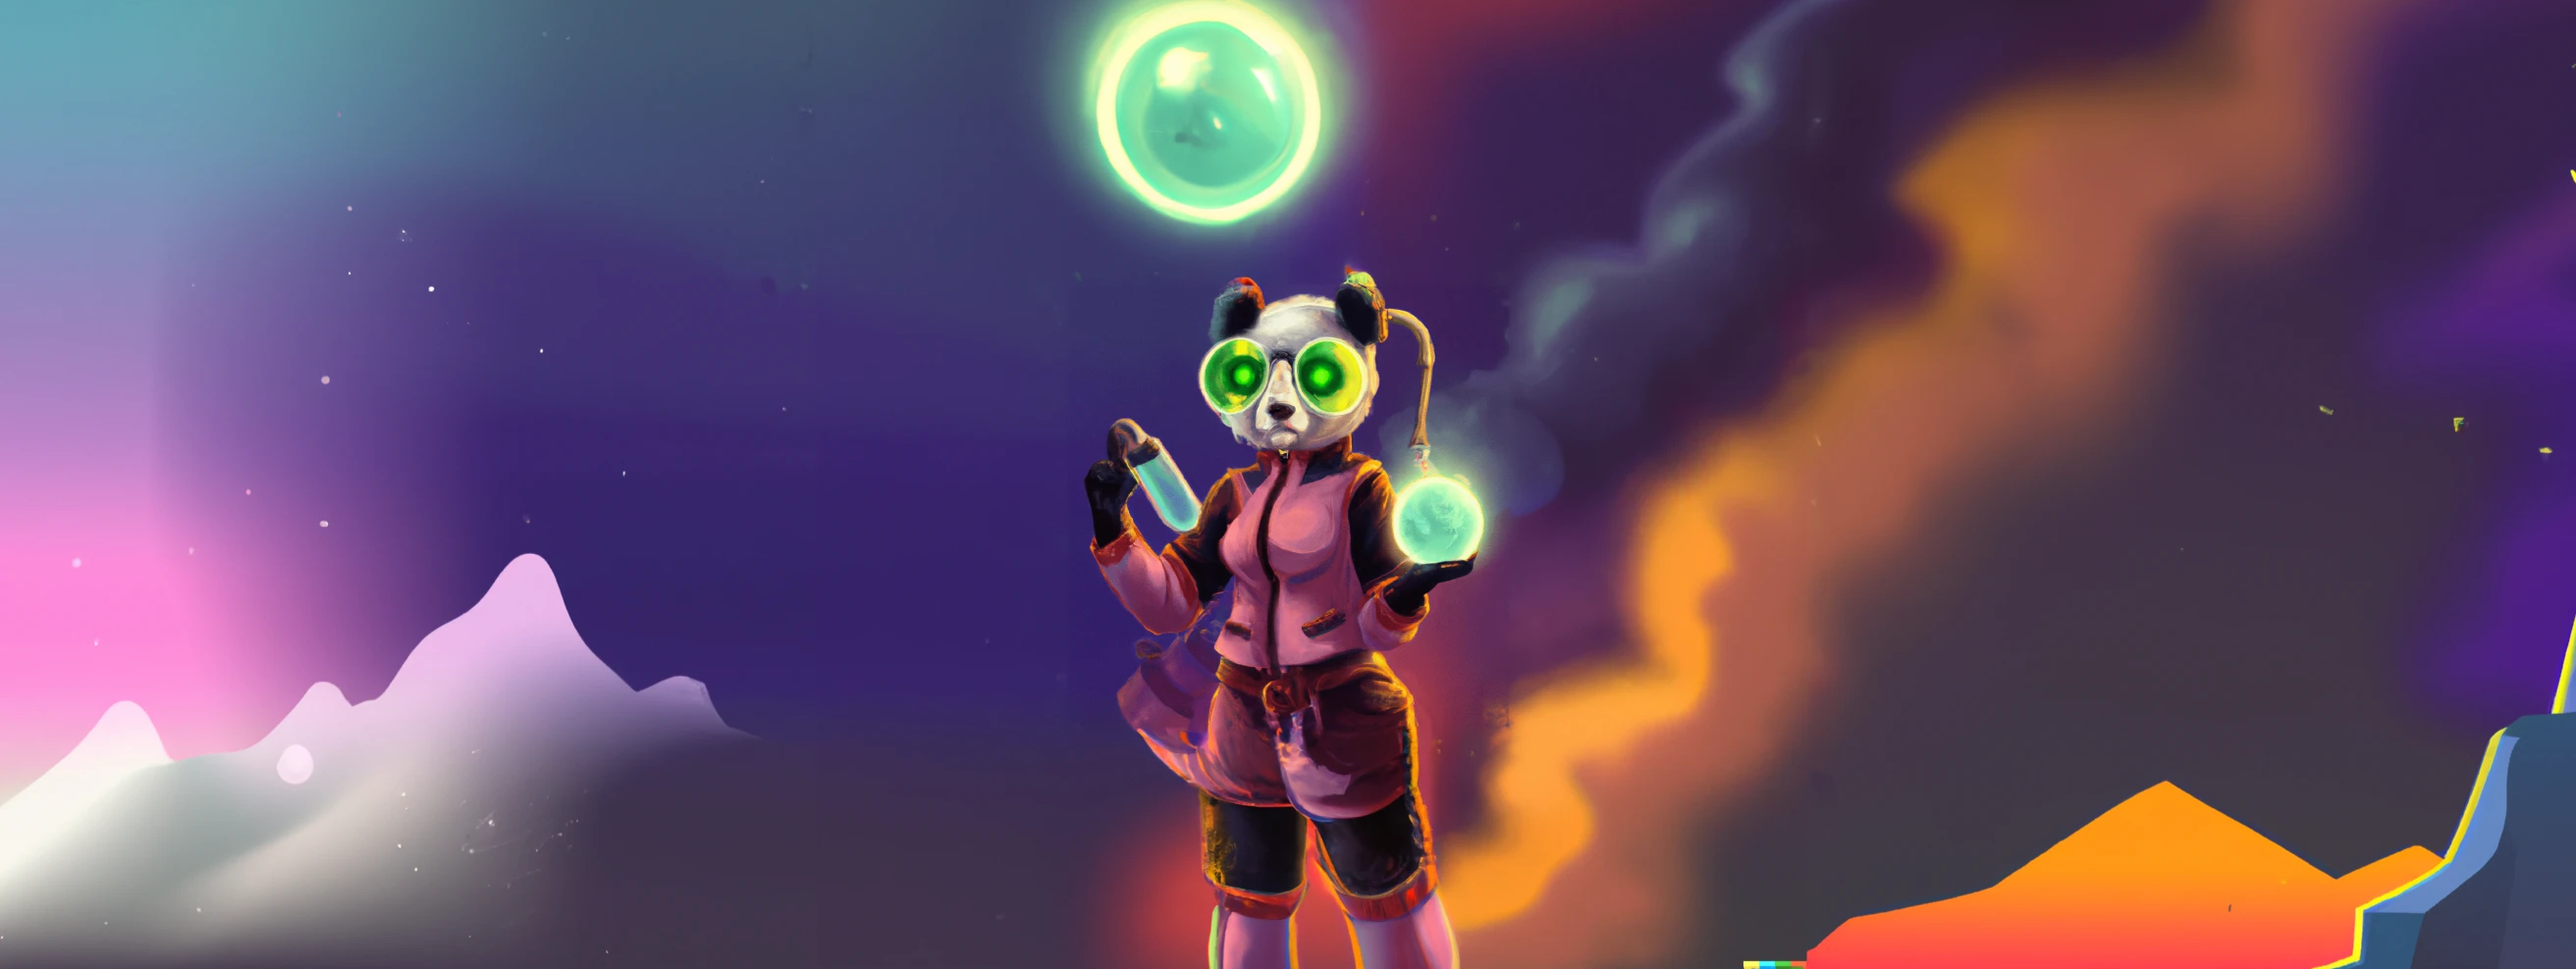
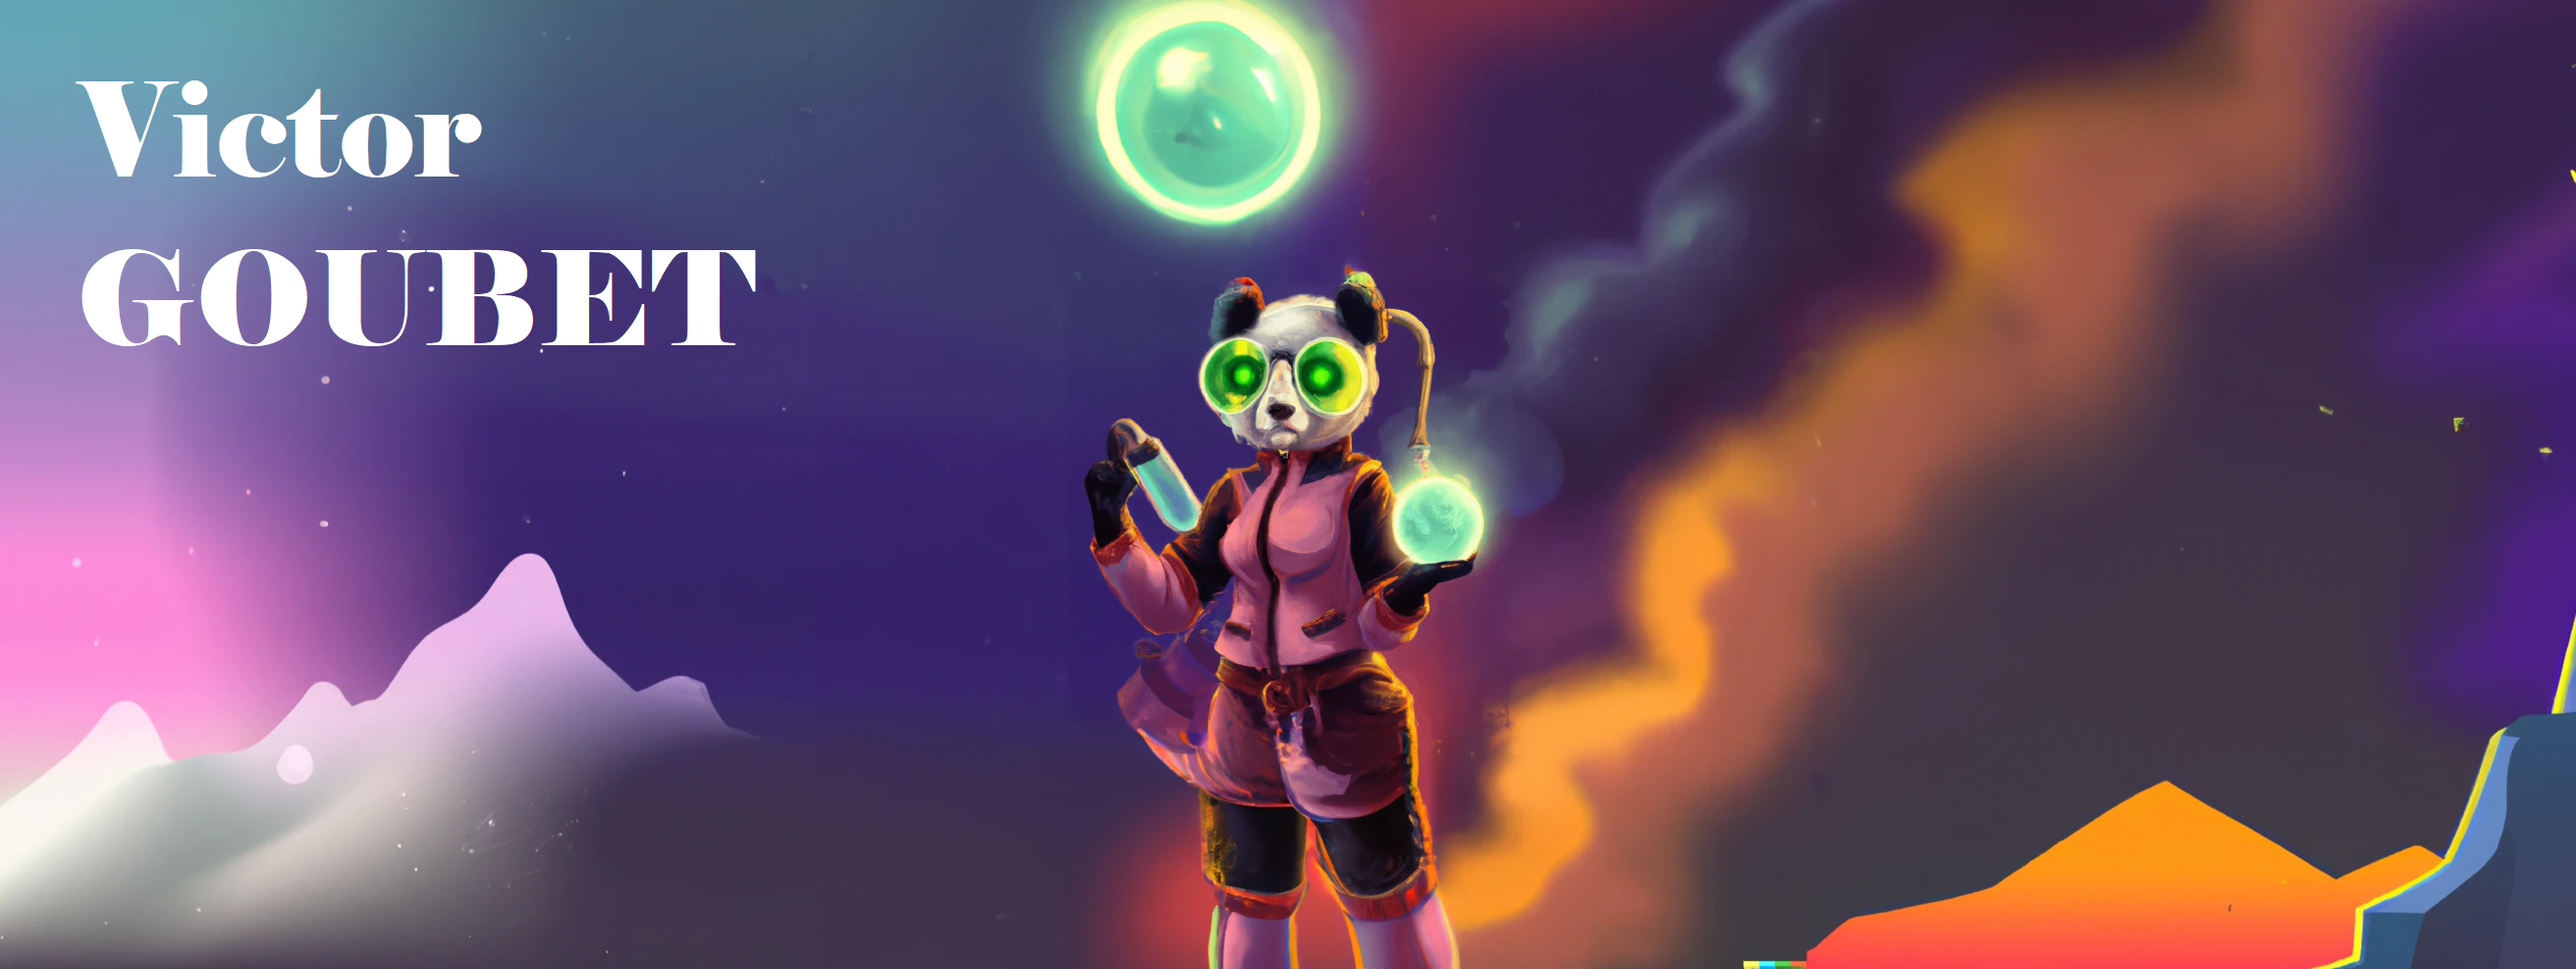
update presentation

Changed region(s): [[0.0312, 0.2429, 0.3125, 0.3644], [0.0312, 0.0607, 0.1875, 0.1822]]

diff --git a/README.md b/README.md
@@ -1,4 +1,35 @@
 
 ![background](background.png)
 
+<br><br>
+# 💡 Projects
 
+## ▶ [Connect Ultra](https://github.com/VictorGoubet/ConnectUltra)
+
+Implementation of an AI for the connect 4 game using min max algorithm, custom heursitic and alpha-beta pruning optimisation. 
+<p align="center">
+	<a href="https://github.com/VictorGoubet/ConnectUltra"><img src="https://github.com/VictorGoubet/ConnectUltra/blob/bd0373fdc1283ea86cace4fd3cf5a8175530404c/screenshot.PNG?raw=true" width="400"></a>
+</p>
+
+## ▶ [Game of Life](https://github.com/VictorGoubet/GameOfLife)
+
+Simulation of the Conway's Game of Life using python and tkinter. How cells could evolve following only 3 simple rules? Let's check!
+<p align="center">
+	<a href="https://github.com/VictorGoubet/GameOfLife"><img src="https://github.com/VictorGoubet/GameOfLife/blob/ad9e31051fbca4fe8eb4bbfd77ac7b96660281ed/screenshot.PNG?raw=true" width="400"></a>
+</p>
+
+<br>
+
+
+# ✉ Contact
+
+<p align="center">
+	<a href="https://www.linkedin.com/in/victorgoubet/">
+		<img src="https://img.shields.io/badge/-LINKEDIN-0077B5?style=for-the-badge&logo=linkedin&logoColor=white">
+	</a>
+	<span>&nbsp;</span>
+	<a href="mailto:victorgoubet@orange.fr">
+		<img src="https://img.shields.io/badge/MAIL-SEND-white?style=for-the-badge&logo=Mailgun">
+	</a>
+</p>
+<br>
